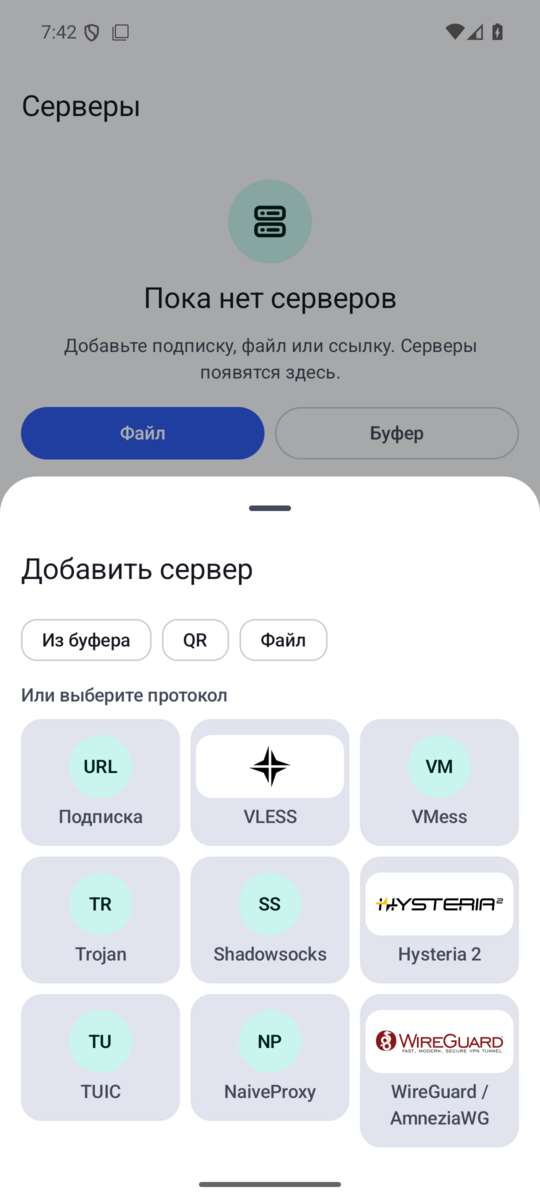
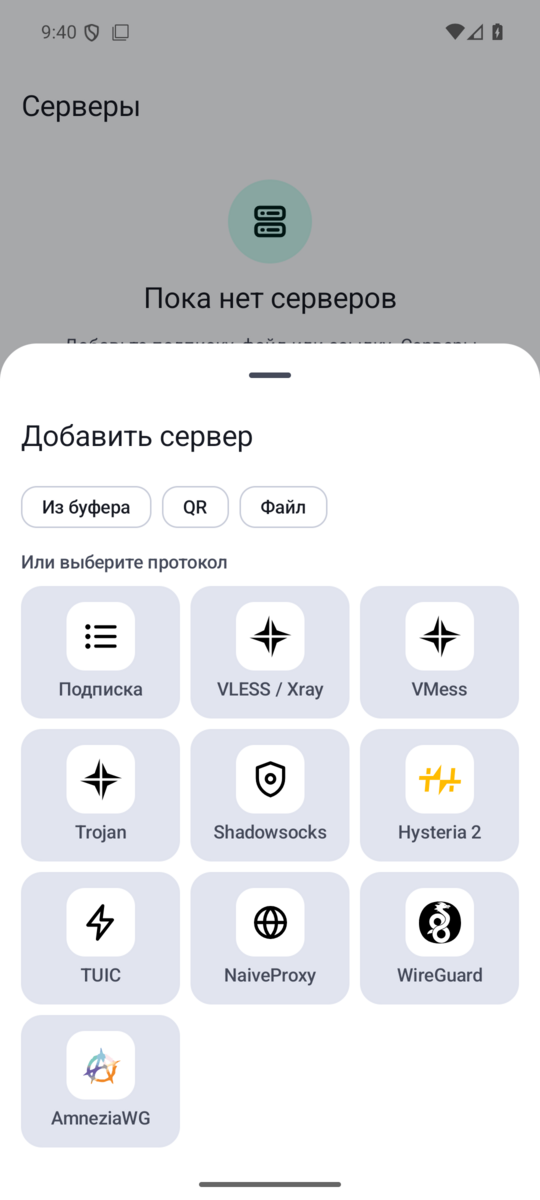
Гайды ZapretKVN: группировка серверов (Android 0.6.71, Windows 0.8.135), игры по папке и переключатель автопереподключения (Windows 0.8.135), логотипы на листе «Добавить сервер»

diff --git a/ZapretKVN/zapret-kvn-windows.md b/ZapretKVN/zapret-kvn-windows.md
@@ -16,11 +16,11 @@ aliases:
   - Зачем в Zapret KVN встроен Zapret
 description: "Что такое Zapret KVN и Zapret 2 GUI простыми словами: как работает каждая программа, чем они отличаются и что выбрать на Windows."
 image: ZapretKVN/attachments/zapret-kvn-windows-header.jpg
-link: https://cwdnvtsqdc.zapret.moe/zapretkvn/zapret-kvn
+link: https://ywumezrlvv.zapret.moe/zapretkvn/zapret-kvn
 ---
 
 > [!mirror] Резервное зеркало
-> Актуальная версия этой страницы — на основной вики: [jzesawgjsz.zapret.moe/ZapretKVN/zapret-kvn-windows](https://jzesawgjsz.zapret.moe/ZapretKVN/zapret-kvn-windows)
+> Актуальная версия этой страницы — на основной вики: [ojfrkwejcc.zapret.moe/ZapretKVN/zapret-kvn-windows](https://ojfrkwejcc.zapret.moe/ZapretKVN/zapret-kvn-windows)
 
 # 🧭 Zapret KVN и Zapret 2 GUI: что это за программы, чем они отличаются и что выбрать
 
@@ -49,7 +49,7 @@ link: https://cwdnvtsqdc.zapret.moe/zapretkvn/zapret-kvn
 
 ## Что такое Zapret 2 GUI
 
-**GUI** (*Graphical User Interface*) значит «графический интерфейс»: окно с кнопками вместо командной строки. Сам Zapret — это консольная программа с множеством параметров, и без окна ею пользуются те, кто готов писать команды. Zapret 2 GUI — оболочка для Windows, которая запускает Zapret за вас и держит настройки в окне. [В README проекта](https://cwdnvtsqdc.zapret.moe/zapretdiscordyoutube/zapretgui/src/branch/main/docs/README.md) её называют одним из самых популярных лаунчеров для Запрета: лаунчер (*launcher*) запускает другую программу и управляет ею. Сам обход выполняет [[Zapret2/Zapret2|Zapret 2]] — программа автора bol-van, которая на Windows называется `winws2`, а старый Zapret 1 (`winws`) в Zapret 2 GUI тоже доступен и переключается быстро.
+**GUI** (*Graphical User Interface*) значит «графический интерфейс»: окно с кнопками вместо командной строки. Сам Zapret — это консольная программа с множеством параметров, и без окна ею пользуются те, кто готов писать команды. Zapret 2 GUI — оболочка для Windows, которая запускает Zapret за вас и держит настройки в окне. [В README проекта](https://ywumezrlvv.zapret.moe/zapretdiscordyoutube/zapretgui/src/branch/main/docs/README.md) её называют одним из самых популярных лаунчеров для Запрета: лаунчер (*launcher*) запускает другую программу и управляет ею. Сам обход выполняет [[Zapret2/Zapret2|Zapret 2]] — программа автора bol-van, которая на Windows называется `winws2`, а старый Zapret 1 (`winws`) в Zapret 2 GUI тоже доступен и переключается быстро.
 
 Откуда программа берёт пакеты? На Windows их перехватывает драйвер WinDivert: это небольшой системный компонент, который позволяет программе увидеть исходящие пакеты, изменить их и отправить дальше. Как именно Zapret 2 пользуется им, описано в заметке [[Zapret2/windivert|про WinDivert]]. Для читателя важно одно: всё происходит на вашем компьютере, а пакеты уходят к сайту напрямую.
 
@@ -73,7 +73,7 @@ link: https://cwdnvtsqdc.zapret.moe/zapretkvn/zapret-kvn
 
 ## Что такое Zapret KVN
 
-Zapret KVN — [программа для Windows от создателей Zapret 2 GUI](https://cwdnvtsqdc.zapret.moe/zapretkvn/zapret-kvn), а для Android у неё есть отдельное приложение с тем же названием и той же идеей: [[ZapretKVN/android|инструкция для телефона]]. В README Zapret 2 GUI её даже рекомендуют как «новую». Если Zapret 2 GUI — про обход без сервера, то Zapret KVN — про подключение через сервер, а Zapret в нём лишь одна из двух частей. Серверов в самом приложении нет: их выдаёт провайдер VPN. Для сервиса Zapret VPN это делает [[premium/zapret-vpn-bot|Telegram-бот]] (подробнее [[#Где взять серверы: Telegram-бот Zapret VPN|ниже]]), а какую ссылку для какого устройства брать, объясняет заметка [[premium/apps|«Приложения для Zapret VPN»]].
+Zapret KVN — [программа для Windows от создателей Zapret 2 GUI](https://ywumezrlvv.zapret.moe/zapretkvn/zapret-kvn), а для Android у неё есть отдельное приложение с тем же названием и той же идеей: [[ZapretKVN/android|инструкция для телефона]]. В README Zapret 2 GUI её даже рекомендуют как «новую». Если Zapret 2 GUI — про обход без сервера, то Zapret KVN — про подключение через сервер, а Zapret в нём лишь одна из двух частей. Серверов в самом приложении нет: их выдаёт провайдер VPN. Для сервиса Zapret VPN это делает [[premium/zapret-vpn-bot|Telegram-бот]] (подробнее [[#Где взять серверы: Telegram-бот Zapret VPN|ниже]]), а какую ссылку для какого устройства брать, объясняет заметка [[premium/apps|«Приложения для Zapret VPN»]].
 
 ![[kvn-two-parts.png]]
 
@@ -83,9 +83,9 @@ Zapret KVN — [программа для Windows от создателей Zapr
 
 **Прокси-протоколы** переносят на сервер отдельные соединения: запрос браузера, сообщение мессенджера. К ним относятся VLESS (с Reality, XTLS-Vision, xhttp, WebSocket, gRPC и HTTP/2), VMess, Trojan, Shadowsocks, Hysteria, Hysteria 2 и TUIC. **VPN-протоколы** переносят на сервер сетевые пакеты компьютера целиком: это WireGuard и AmneziaWG (версий 1.5 и 2.0). Разницу для вас стирает виртуальный адаптер: когда включён режим «VPN (TUN)», программа создаёт адаптер, который принимает весь трафик системы и отдаёт его выбранному протоколу, даже если тот по природе прокси. Поэтому снаружи все они работают как VPN. Чем протоколы отличаются друг от друга, объясняют [[premium/glossary|словарь терминов]] и заметка [[premium/apps|про приложения]]. Сырой фрагмент настроек sing-box тоже принимается, так подключаются и редкие протоколы.
 
-Под капотом программа устроена слоями. Нижний слой — **ядро протокола**: отдельная программа внутри приложения, которая владеет протоколом и держит соединение. Для VLESS, а с версии 0.8.81 (16 ноября 2026 года) и для VMess с Trojan это официальное Xray, для Hysteria 2 — официальное Hysteria, для WireGuard и AmneziaWG — устройство Amnezia, для остальных протоколов — sing-box. Верхний слой — прокладка на sing-box: она владеет виртуальным адаптером, маршрутизацией, DNS и защищёнными соединениями, то есть теми соединениями самой программы, которые нельзя пускать в её же туннель. Адаптер, таким образом, не часть протокола, а отдельный слой над ним. У WireGuard из-за этого два ядра сразу: Amnezia ведёт сам протокол, а sing-box отвечает за адаптер и маршруты. Об этом решении проекта от 4 ноября 2026 года написано в [документации по модулям программы](https://cwdnvtsqdc.zapret.moe/zapretkvn/zapret-kvn/src/branch/main/docs/RUNTIME_MODULES.md).
+Под капотом программа устроена слоями. Нижний слой — **ядро протокола**: отдельная программа внутри приложения, которая владеет протоколом и держит соединение. Для VLESS, а с версии 0.8.81 (16 ноября 2026 года) и для VMess с Trojan это официальное Xray, для Hysteria 2 — официальное Hysteria, для WireGuard и AmneziaWG — устройство Amnezia, для остальных протоколов — sing-box. Верхний слой — прокладка на sing-box: она владеет виртуальным адаптером, маршрутизацией, DNS и защищёнными соединениями, то есть теми соединениями самой программы, которые нельзя пускать в её же туннель. Адаптер, таким образом, не часть протокола, а отдельный слой над ним. У WireGuard из-за этого два ядра сразу: Amnezia ведёт сам протокол, а sing-box отвечает за адаптер и маршруты. Об этом решении проекта от 4 ноября 2026 года написано в [документации по модулям программы](https://ywumezrlvv.zapret.moe/zapretkvn/zapret-kvn/src/branch/main/docs/RUNTIME_MODULES.md).
 
-**Что умеет вшитый sing-box.** Это не стандартный sing-box, а форк `shtorm-7/sing-box-extended`. По состоянию на коммит `bac62d3` (21 ноября 2026 года) закреплена версия `v1.14.3-extended-2.7.3` ([core-release-freeze.json](https://cwdnvtsqdc.zapret.moe/zapretkvn/zapret-kvn/src/commit/bac62d3/core-release-freeze.json)); более старая строка о версии `v1.13.14-extended-2.5.2` в `docs/sing-box/README.md` устарела. Список тегов сборки включает `with_naive_outbound`, а рядом с ядром лежит `libcronet.dll` ([meta.json](https://cwdnvtsqdc.zapret.moe/zapretkvn/zapret-kvn/src/commit/bac62d3/assets/sing-box-schema/meta.json), [core-lock.windows-x64.json](https://cwdnvtsqdc.zapret.moe/zapretkvn/zapret-kvn/src/commit/bac62d3/scripts/core-lock.windows-x64.json)). Поэтому через sing-box доступны [[protocols/anytls|AnyTLS]] и [[protocols/naiveproxy|NaiveProxy]]. Добавляются они вставкой сырого фрагмента sing-box (`{"type": "anytls", ...}` или `{"type": "naive", ...}`), а не готовой ссылкой: схем `anytls://` и naive в списке известных нет. Подписка в виде JSON такие типы пропускает: фильтр узлов разрешает только `vless`, `vmess`, `trojan`, `shadowsocks`, `socks`, `http`, `hysteria`, `hysteria2`, `tuic` и `wireguard` ([subscription_parser.py](https://cwdnvtsqdc.zapret.moe/zapretkvn/zapret-kvn/src/commit/bac62d3/xray_fluent/importer/subscription_parser.py)). Для AnyTLS в приложении есть тесты и отдельная настройка «Фрагментация TLS», для NaiveProxy тестов нет. Живой запуск этих узлов не проверялся, а на Android-клиент разбор не распространяется.
+**Что умеет вшитый sing-box.** Это не стандартный sing-box, а форк `shtorm-7/sing-box-extended`. По состоянию на коммит `bac62d3` (21 ноября 2026 года) закреплена версия `v1.14.3-extended-2.7.3` ([core-release-freeze.json](https://ywumezrlvv.zapret.moe/zapretkvn/zapret-kvn/src/commit/bac62d3/core-release-freeze.json)); более старая строка о версии `v1.13.14-extended-2.5.2` в `docs/sing-box/README.md` устарела. Список тегов сборки включает `with_naive_outbound`, а рядом с ядром лежит `libcronet.dll` ([meta.json](https://ywumezrlvv.zapret.moe/zapretkvn/zapret-kvn/src/commit/bac62d3/assets/sing-box-schema/meta.json), [core-lock.windows-x64.json](https://ywumezrlvv.zapret.moe/zapretkvn/zapret-kvn/src/commit/bac62d3/scripts/core-lock.windows-x64.json)). Поэтому через sing-box доступны [[protocols/anytls|AnyTLS]] и [[protocols/naiveproxy|NaiveProxy]]. Добавляются они вставкой сырого фрагмента sing-box (`{"type": "anytls", ...}` или `{"type": "naive", ...}`), а не готовой ссылкой: схем `anytls://` и naive в списке известных нет. Подписка в виде JSON такие типы пропускает: фильтр узлов разрешает только `vless`, `vmess`, `trojan`, `shadowsocks`, `socks`, `http`, `hysteria`, `hysteria2`, `tuic` и `wireguard` ([subscription_parser.py](https://ywumezrlvv.zapret.moe/zapretkvn/zapret-kvn/src/commit/bac62d3/xray_fluent/importer/subscription_parser.py)). Для AnyTLS в приложении есть тесты и отдельная настройка «Фрагментация TLS», для NaiveProxy тестов нет. Живой запуск этих узлов не проверялся, а на Android-клиент разбор не распространяется.
 
 Серверы добавляются двумя способами. **Подписка** — это ссылка от провайдера VPN: по ней программа скачивает список серверов и сама его обновляет, так что новые серверы появляются без ручной настройки. Поддерживается несколько подписок сразу, можно считать QR-код, а если провайдер отвечает только определённым программам, выбирается профиль клиента (Zapret KVN, Happ, INCY или v2RayTun). Второй способ — ссылка на один сервер (`vless://`, `trojan://`, `hy2://`, а с версии 0.8.127 и ключ NaiveProxy `naive+https://` из бота, который идёт через официальную программу naive) или текст файла `.conf` для WireGuard и AmneziaWG: её вставляют сочетанием Ctrl+V, и программа сама определяет тип. Ссылка-подписка содержит ваш личный ключ, поэтому относиться к ней стоит как к паролю: программа прячет её в окне и в логах.
 
@@ -101,11 +101,11 @@ Zapret KVN — [программа для Windows от создателей Zapr
 
 ### Маршрутизация: что идёт через сервер
 
-Не весь трафик стоит пускать через сервер, поэтому в программе есть **маршрутизация** — правила, которые решают, куда отправить каждое соединение. Готовые правила устроены так: российские сайты, банки и госуслуги открываются напрямую, заблокированные и все остальные идут через сервер, устройства домашней сети тоже напрямую. Свои исключения добавляются кнопкой «Добавить правило»: можно выбрать «Через VPN», «Напрямую» или «Блокировать» и перечислить сайты или программы. Есть и проверка: впишите адрес сайта, и программа покажет, куда он пойдёт и какое правило так решило.
+Не весь трафик стоит пускать через сервер, поэтому в программе есть **маршрутизация** — правила, которые решают, куда отправить каждое соединение. Готовые правила устроены так: российские сайты, банки и госуслуги открываются напрямую, заблокированные и все остальные идут через сервер, устройства домашней сети тоже напрямую. Свои исключения добавляются кнопкой «Добавить правило»: можно выбрать «Через VPN», «Напрямую» или «Блокировать» и перечислить сайты или программы. С версии 0.8.135 программу можно указать не только по имени `.exe`, но и **папкой**: строка с обратной косой чертой на конце, например `C:\Program Files (x86)\World of Warcraft\`, охватывает все программы, которые запускаются из этой папки и из вложенных. У игры их десятки (клиент, лаунчер, обновлялка), и перечислять каждую не нужно. Кнопки **«Папка игры…»** и **«Найти запущенные…»** в окне правила подставляют папку сами: вторая показывает работающие программы, сгруппированные по папкам установки. «Напрямую» означает выход через обычную сетевую карту компьютера, но пакеты по-прежнему проходят через адаптер TUN: полностью мимо адаптера на Windows программу вывести нельзя. Есть и проверка: впишите адрес сайта, и программа покажет, куда он пойдёт и какое правило так решило.
 
 ### Встроенный Zapret
 
-Вторая часть — тот самый Zapret, но внутри Zapret KVN. По README, это обход замедлений без VPN с несколькими встроенными пресетами, и его можно использовать вместо Zapret 2 GUI. Он работает независимо от подключения к серверу. Здесь же у него есть и специальная работа: если провайдер мешает подключиться к самому VPN-серверу, Zapret прикрывает именно это соединение, и для обычных серверов (VLESS, Trojan и подобных) такая защита включена по умолчанию. Это описано в разделе о Zapret в [обучении программы](https://cwdnvtsqdc.zapret.moe/zapretkvn/zapret-kvn/src/branch/main/xray_fluent/ui/tour/steps.py).
+Вторая часть — тот самый Zapret, но внутри Zapret KVN. По README, это обход замедлений без VPN с несколькими встроенными пресетами, и его можно использовать вместо Zapret 2 GUI. Он работает независимо от подключения к серверу. Здесь же у него есть и специальная работа: если провайдер мешает подключиться к самому VPN-серверу, Zapret прикрывает именно это соединение, и для обычных серверов (VLESS, Trojan и подобных) такая защита включена по умолчанию. Это описано в разделе о Zapret в [обучении программы](https://ywumezrlvv.zapret.moe/zapretkvn/zapret-kvn/src/branch/main/xray_fluent/ui/tour/steps.py).
 
 ### Маскировка
 
@@ -133,7 +133,7 @@ Zapret KVN — [программа для Windows от создателей Zapr
 
 ### Остальные возможности
 
-В программе есть мониторинг (скорость загрузки и отдачи, пинг до сервера, трафик по процессам), пинг и тест скорости серверов, автоматическое переключение на другой сервер, когда текущий перестал отвечать, шифрование данных мастер-паролем, светлая и тёмная темы, работа из системного трея и автоматическое обновление. Раздел «Логи» собирает диагностику для поддержки без паролей и адресов серверов, а обучение из 27 шагов объясняет все страницы и запускается заново из бокового меню. С версии 0.8.61 на каждой карточке обучения есть ссылка «Подробнее в статье», которая ведёт на эту заметку. Полный список возможностей — в [README Zapret KVN](https://cwdnvtsqdc.zapret.moe/zapretkvn/zapret-kvn/src/branch/main/docs/README.md).
+В программе есть мониторинг (скорость загрузки и отдачи, пинг до сервера, трафик по процессам), пинг и тест скорости серверов, автоматическое переключение на другой сервер, когда текущий перестал отвечать (с версии 0.8.135 всё автоматическое — смена сервера, ротация, переподключение после смены сети, обновления подписки или ядра — выключается одной настройкой **«Автоматическое переподключение»** в «Настройках»: тогда подключение держится, пока вы не переподключитесь сами, а ручные действия работают всегда), группировка списка серверов по вашему выбору с версии 0.8.135 (страны, серверы провайдера, протоколы, до трёх уровней вложенности; «Свой порядок…» в списке «Группировка» на странице серверов), шифрование данных мастер-паролем, светлая и тёмная темы, работа из системного трея и автоматическое обновление. Раздел «Логи» собирает диагностику для поддержки без паролей и адресов серверов, а обучение из 27 шагов объясняет все страницы и запускается заново из бокового меню. С версии 0.8.61 на каждой карточке обучения есть ссылка «Подробнее в статье», которая ведёт на эту заметку. Полный список возможностей — в [README Zapret KVN](https://ywumezrlvv.zapret.moe/zapretkvn/zapret-kvn/src/branch/main/docs/README.md).
 
 ## Сравнение: что у кого есть
 
@@ -191,16 +191,16 @@ Zapret KVN сам серверов не содержит, зато у коман
 
 **Сколько это стоит?** Сами программы распространяются без платы, обе под лицензией MIT. Платить приходится за серверы для Zapret KVN: их даёт подписка в боте [@zapretvpns_bot](https://telegram.me/zapretvpns_bot), а попробовать можно за 9 ₽ на один день. Тарифы и способы оплаты описаны в [[Zapret/premium|гайде по Zapret VPN]].
 
-**Где взять программы?** Zapret 2 GUI и Zapret KVN выкладываются в релизах на Git-сервере проекта: [Zapret 2 GUI](https://cwdnvtsqdc.zapret.moe/zapretdiscordyoutube/zapretgui), [Zapret KVN](https://cwdnvtsqdc.zapret.moe/zapretkvn/zapret-kvn). Другие способы скачать Zapret 2 GUI собраны в заметке [[Zapret/download|«Как скачать Zapret 2 GUI»]].
+**Где взять программы?** Zapret 2 GUI и Zapret KVN выкладываются в релизах на Git-сервере проекта: [Zapret 2 GUI](https://ywumezrlvv.zapret.moe/zapretdiscordyoutube/zapretgui), [Zapret KVN](https://ywumezrlvv.zapret.moe/zapretkvn/zapret-kvn). Другие способы скачать Zapret 2 GUI собраны в заметке [[Zapret/download|«Как скачать Zapret 2 GUI»]].
 
 ## Источники
 
-- [Репозиторий Zapret 2 GUI на Forgejo, версия 21.1.7.228 на 4 ноября 2026](https://cwdnvtsqdc.zapret.moe/zapretdiscordyoutube/zapretgui)
-- [Zapret 2 GUI: README — возможности, 200+ стратегий, лицензия](https://cwdnvtsqdc.zapret.moe/zapretdiscordyoutube/zapretgui/src/branch/main/docs/README.md)
-- [Репозиторий Zapret KVN на Forgejo, версия 0.8.60 на 4 ноября 2026](https://cwdnvtsqdc.zapret.moe/zapretkvn/zapret-kvn)
-- [Zapret KVN: README — протоколы, режимы, встроенный Zapret](https://cwdnvtsqdc.zapret.moe/zapretkvn/zapret-kvn/src/branch/main/docs/README.md)
-- [Zapret KVN: `docs/RUNTIME_MODULES.md` — какое ядро отвечает за какой протокол](https://cwdnvtsqdc.zapret.moe/zapretkvn/zapret-kvn/src/branch/main/docs/RUNTIME_MODULES.md)
-- [Zapret KVN: `steps.py` — тексты обучения внутри программы](https://cwdnvtsqdc.zapret.moe/zapretkvn/zapret-kvn/src/branch/main/xray_fluent/ui/tour/steps.py)
+- [Репозиторий Zapret 2 GUI на Forgejo, версия 21.1.7.228 на 4 ноября 2026](https://ywumezrlvv.zapret.moe/zapretdiscordyoutube/zapretgui)
+- [Zapret 2 GUI: README — возможности, 200+ стратегий, лицензия](https://ywumezrlvv.zapret.moe/zapretdiscordyoutube/zapretgui/src/branch/main/docs/README.md)
+- [Репозиторий Zapret KVN на Forgejo, версия 0.8.60 на 4 ноября 2026](https://ywumezrlvv.zapret.moe/zapretkvn/zapret-kvn)
+- [Zapret KVN: README — протоколы, режимы, встроенный Zapret](https://ywumezrlvv.zapret.moe/zapretkvn/zapret-kvn/src/branch/main/docs/README.md)
+- [Zapret KVN: `docs/RUNTIME_MODULES.md` — какое ядро отвечает за какой протокол](https://ywumezrlvv.zapret.moe/zapretkvn/zapret-kvn/src/branch/main/docs/RUNTIME_MODULES.md)
+- [Zapret KVN: `steps.py` — тексты обучения внутри программы](https://ywumezrlvv.zapret.moe/zapretkvn/zapret-kvn/src/branch/main/xray_fluent/ui/tour/steps.py)
 
 ## 📚 См. также
 
@@ -214,4 +214,4 @@ Zapret KVN сам серверов не содержит, зато у коман
 ---
 
 > [!quote] 🤖 Эти статьи открыты — можно обучать на них ИИ
-> При желании вы можете натренировать ИИ на наших статьях. Исходное форматирование доступно в Forgejo: [исходник этой заметки](https://cwdnvtsqdc.zapret.moe/zapretdiscordyoutube/todo/src/branch/main/ZapretKVN/zapret-kvn-windows.md) · [скачать весь репозиторий одним zip-архивом](https://cwdnvtsqdc.zapret.moe/zapretdiscordyoutube/todo/archive/main.zip).
+> При желании вы можете натренировать ИИ на наших статьях. Исходное форматирование доступно в Forgejo: [исходник этой заметки](https://ywumezrlvv.zapret.moe/zapretdiscordyoutube/todo/src/branch/main/ZapretKVN/zapret-kvn-windows.md) · [скачать весь репозиторий одним zip-архивом](https://ywumezrlvv.zapret.moe/zapretdiscordyoutube/todo/archive/main.zip).
